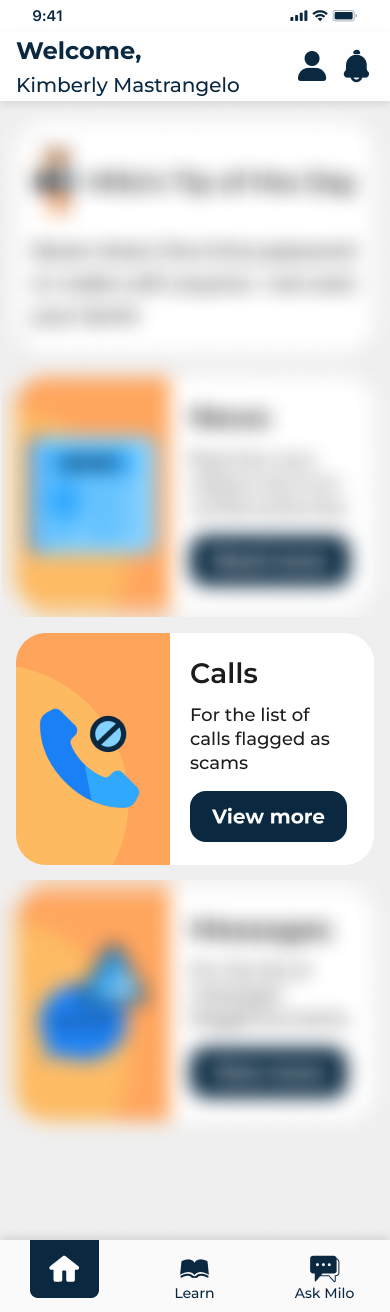
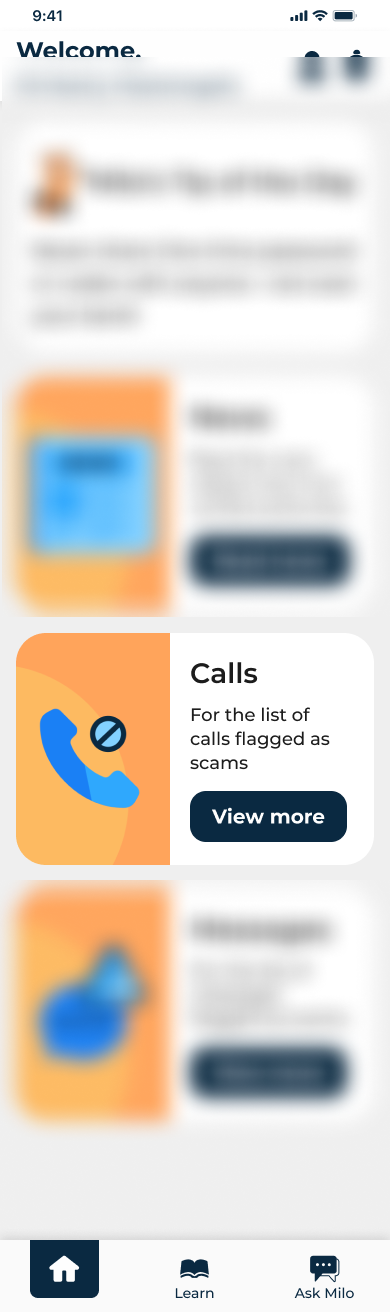
image update, more tips

Changed region(s): [[0.0308, 0.0312, 0.6154, 0.1875], [0.7385, 0.0312, 0.9846, 0.0938]]

diff --git a/src/app/(tabs)/home.tsx b/src/app/(tabs)/home.tsx
@@ -9,7 +9,11 @@ const tips = [
     'Never share One Time Password or codes with anyone, not even your bank!',
     'Be cautious of emails asking for personal information, phishing scams are common.',
     'If a deal sounds too good to be true, it probably is a scam!',
-    'Avoid clicking on unknown links in messages or emails.'
+    'Avoid clicking on unknown links in messages or emails.',
+    'Always verify the legitimacy of a website before entering your payment details.',
+    'Never give out personal information unless you are sure of the requester’s identity.',
+    'If you’re not sure about a phone call or email, it’s okay to hang up or delete it and check back with the company or person directly.',
+    'If you receive a call from someone claiming to be from a government agency or a company, hang up and call them back using an official number.'
 ]
 
 const Home = (): React.JSX.Element => {

diff --git a/src/app/onboarding/tour2tip.tsx b/src/app/onboarding/tour2tip.tsx
@@ -24,7 +24,7 @@ const Tour2tip = (): React.JSX.Element => {
             style={{
                 width: '100%',
                 aspectRatio: 390 / 1312,
-                transform: [{ translateY: -100 }]
+                transform: [{ translateY: -110 }]
             }}
             resizeMode="cover"
         >
